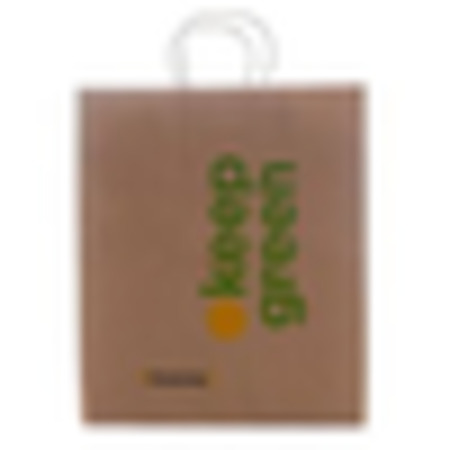
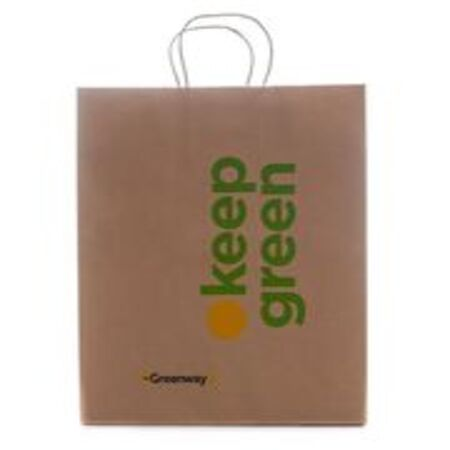
Добавил описания бумажных пакетов и фото к ним

diff --git a/product.html b/product.html
@@ -79,10 +79,10 @@
                         <div class="mini">
                             <div>
                                 <div class="rail">
-                                    <img src="images/mini_10.jpg" alt="Толстовка">
-									<img src="images/mini_01.jpg" alt="Толстовка">
+                                    <img src="images/mini_01.jpg" alt="Толстовка">
+									
                                     <img src="images/mini_02.jpg" alt="Толстовка">
-									<img src="images/mini_10.jpg" alt="Толстовка">
+									
 									<img src="images/mini_03.jpg" alt="Толстовка">
 									<img src="images/mini_04.jpg" alt="Толстовка">
                                 </div>
@@ -100,6 +100,41 @@
                     
                     <div class="descriptions">Толстовка произведена компанией – производителем модных и экологичных премиум-вещей в Европе. Лучший стиль, модные цвета, необыкновенные ткани, — вот что делает одежду уникальной. Эта прогрессивная марка, является ведущим в мире производителем одежды из органического хлопка с использованием экологических ресурсов.</div>
                 </article>
+			
+			<article>
+			         <h1>Бумажный Пакет</h1>
+                    
+                    <div class="imagedesk">
+                        <div class="bigimage">
+                            <img src="images/10.jpg" alt="Бумажный Пакет">
+                        </div>
+                        <div class="mini">
+                            <div>
+                                <div class="rail">
+                                    <img src="images/mini_8.jpg" alt="Бумажный Пакет">
+									<img src="images/mini_10.jpg" alt="Бумажный Пакет">
+									<img src="images/mini_7.jpg" alt="Бумажный Пакет">
+									<img src="images/mini_700.jpg" alt="Бумажный Пакет">
+									<img src="images/mini_701.jpg" alt="Бумажный Пакет">
+									<img src="images/mini_702.jpg" alt="Бумажный Пакет">
+                                </div>
+                            </div>
+                            <span class="gal_left">&#8249;</span>
+                            <span class="gal_right disabled">&#8250;</span>
+                        </div>
+                    </div>
+                    
+                    <div class="pricedesk">
+                        <p class="big">Это Бумажный Пакет</p>
+                        <p class="price">100 &#8381;</p>
+                        <button type="button" class="buy">Купить</button>
+                    </div>
+                    
+                    <div class="descriptions">Производство бумажных пакетов из вторсырья – это прекрасный пример важности сбора и переработки макулатуры, ведь при использовании вторичного сырья не только сберегаются природные леса, но и происходит экономия электроэнергии, воды и других ресурсов, что имеет огромное значение для экологического благополучия планеты.</div>
+                </article>
+			
+			
+			
 			
             </div>
         </section>

diff --git a/catalog.html b/catalog.html
@@ -85,7 +85,7 @@
                         <div class="item" data-href="product.html"> <!--/*исправил*/-->
 						
                             <h3>Пакет</h3>
-                            <img src="images/10.png" alt="Пакет">
+                            <img src="images/10.png" alt="Бумажный Пакет">
                             <p>Пакет изготовлен из переработанного сырья. Сделай шаг к светлому будущему.</p>
                             <button type="button">🛒</button>
                         </div>

diff --git a/css/style.css b/css/style.css
@@ -335,7 +335,7 @@ main {
 }
 .buy,
 .item button {
-    background: #0DFF00;
+    background: #0DFF00;  /*цвет кнопки корзина*/
     color: white;
     font-size: 32px;
     line-height: 48px;
